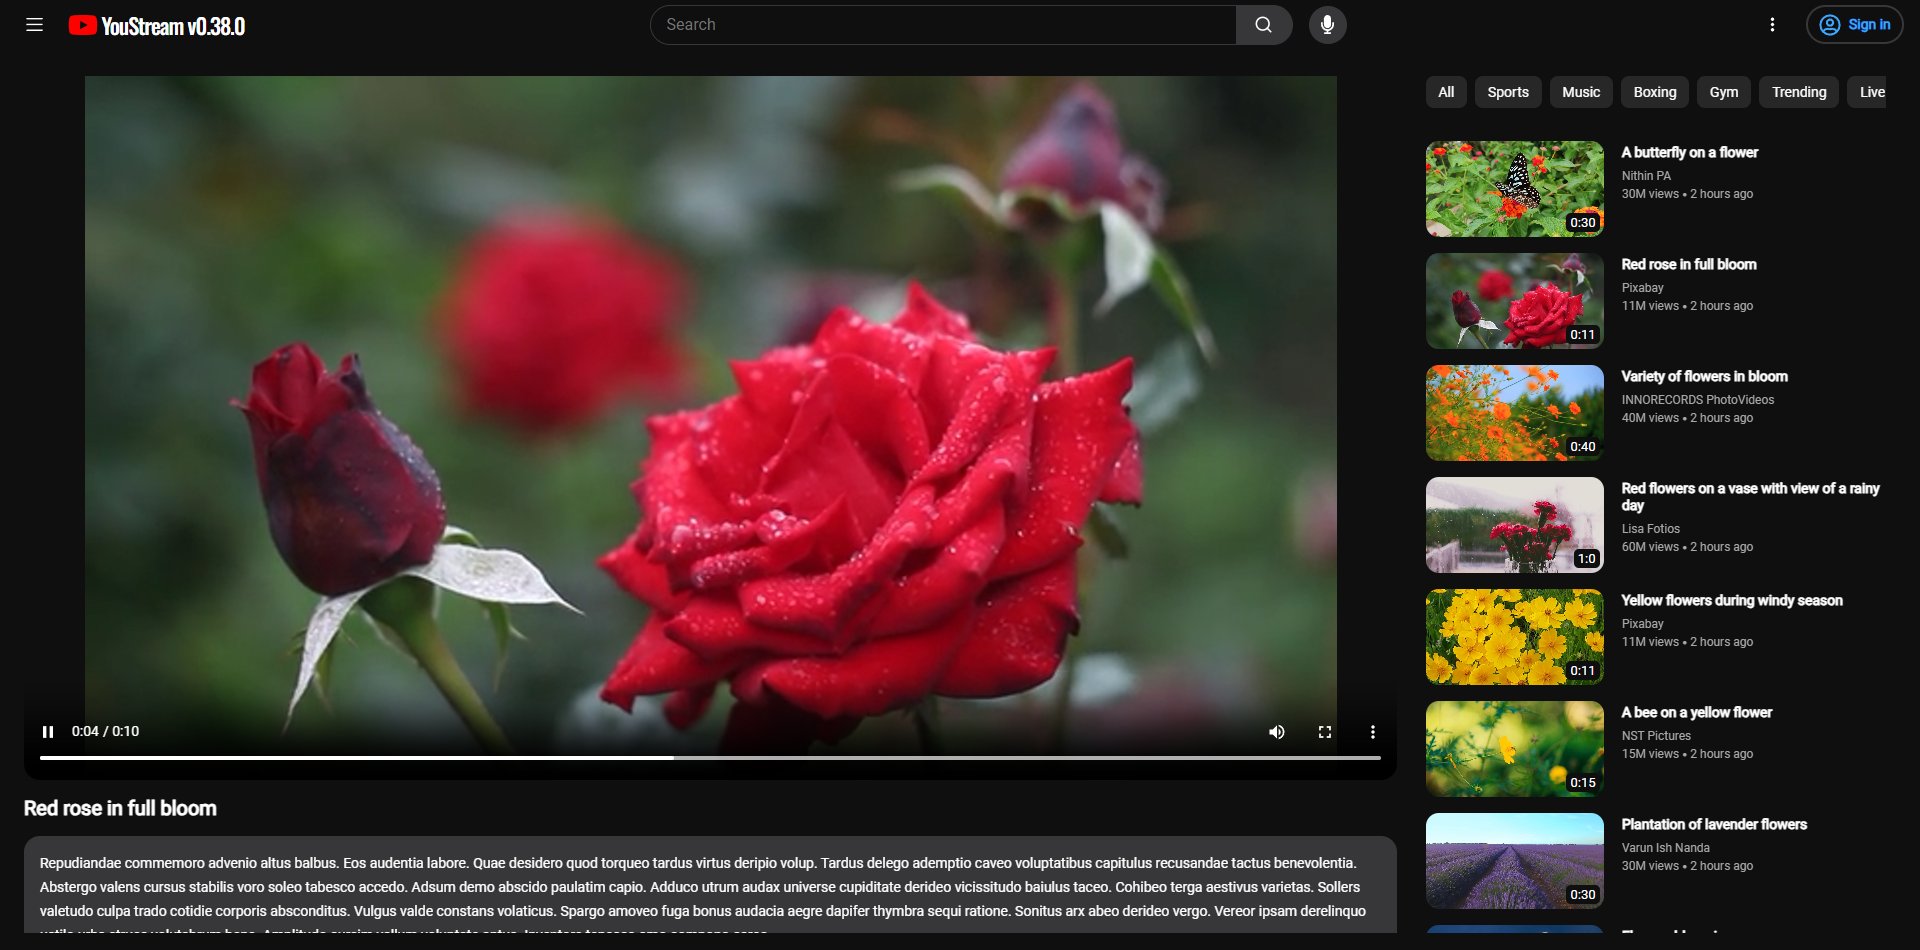
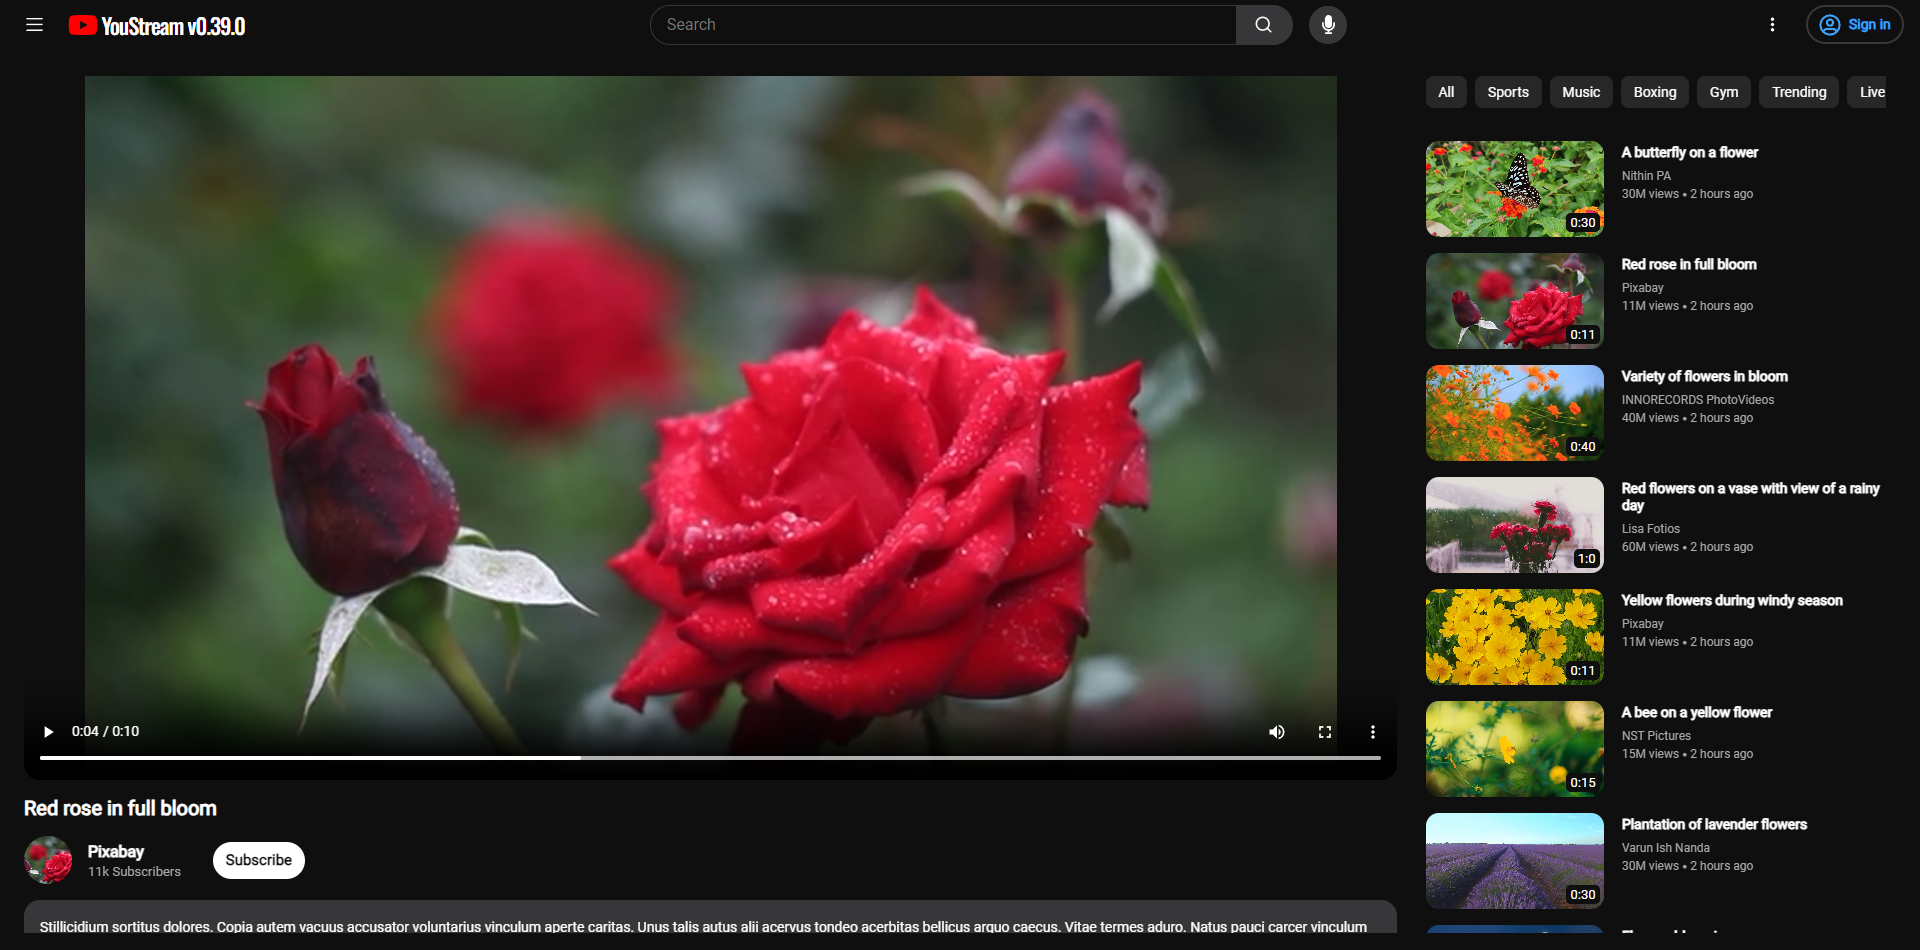
YOU STREAM 0.39.0
Update WatchVideoContents.tsx
Update WatchVideoContents.styles.ts

diff --git a/src/components/watchVideoContents/WatchVideoContents.tsx b/src/components/watchVideoContents/WatchVideoContents.tsx
@@ -2,8 +2,12 @@ import React, { useEffect } from "react";
 import {
   MoreVideosContainer,
   StyledWatchVideoContents,
+  SubscribeButton,
+  UserAccount,
   VideoDescription,
   VideoDetails,
+  VideoDetailsActions,
+  VideoDetailsInfo,
   VideoScreen,
   WatchVideosContainer,
 } from "./WatchVideoContents.styles";
@@ -16,9 +20,10 @@ import { LoadingBackdrop } from "../content/Content.styles";
 import ReactPlayer from "react-player";
 import { Text } from "../../utils/Text.styles";
 import { faker } from "@faker-js/faker";
+import { RegularVideoPic } from "../regularVideoItem/RegularVideoItem.styles";
 
 const WatchVideoContents = () => {
-  const { videos, fetchVideo, videoToWatchData, isFetchingVideos } =
+  const { videos, fetchVideo, videoToWatchData, isFetchingVideos, text } =
     useAppContext();
   const { id } = useParams();
 
@@ -54,6 +59,20 @@ const WatchVideoContents = () => {
             <Text className="videoScreenTitle">
               {getTitle(videoToWatchData?.url + "")}
             </Text>
+            <VideoDetailsActions>
+              <VideoDetailsInfo>
+                <RegularVideoPic>
+                  <img src={videoToWatchData?.image} alt="profile pic" />
+                </RegularVideoPic>
+                <UserAccount>
+                  <Text className="name">{videoToWatchData?.user.name}</Text>
+                  <Text className="subscribers">
+                    {videoToWatchData?.duration}k {text.subscribers}
+                  </Text>
+                </UserAccount>
+                <SubscribeButton>{text.subscribe}</SubscribeButton>
+              </VideoDetailsInfo>
+            </VideoDetailsActions>
             <VideoDescription>
               <Text>{faker.lorem.paragraphs(5)}</Text>
             </VideoDescription>

diff --git a/src/components/watchVideoContents/WatchVideoContents.styles.ts b/src/components/watchVideoContents/WatchVideoContents.styles.ts
@@ -50,3 +50,42 @@ export const VideoDescription = styled.div`
   margin-top: 1rem;
   line-height: 1.5rem;
 `;
+
+export const VideoDetailsActions = styled.div`
+  display: flex;
+  align-items: center;
+  justify-content: space-between;
+  margin-top: 1rem;
+`;
+
+export const VideoDetailsInfo = styled.div`
+  display: flex;
+  align-items: center;
+`;
+
+export const UserAccount = styled.div`
+  display: flex;
+  flex-direction: column;
+  margin-left: 1rem;
+  gap: 0.2rem;
+
+  .name {
+    font-weight: 800;
+    font-size: 16px;
+  }
+
+  .subscribers {
+    font-size: 13px;
+    color: ${({ theme: { grey3 } }) => grey3};
+  }
+`;
+
+export const SubscribeButton = styled.div`
+  padding: 0.6rem 0.8rem;
+  border-radius: 200rem;
+  background-color: ${({ theme: { text } }) => text};
+  color: ${({ theme: { background } }) => background};
+  margin-left: 2rem;
+  font-size: 15px;
+  font-weight: bold;
+`;

diff --git a/src/components/header/Header.tsx b/src/components/header/Header.tsx
@@ -48,7 +48,7 @@ const Header = () => {
         </Icon>
         <LogoSection to="/">
           <FaYoutube color="#FF0000" size={30} />
-          <Text className="logo">YouStream v0.38.0</Text>
+          <Text className="logo">YouStream v0.39.0</Text>
         </LogoSection>
       </LeftSection>
       <SearchSection>

diff --git a/README.md b/README.md
@@ -1,6 +1,7 @@
 # _YOU STREAM_
 
 ![THUMBNAIL](resources/img/Thumbnail_1.png)
+
 ![THUMBNAIL](resources/img/Thumbnail_2.png)
 
 - **DESCRIPTION :**
@@ -11,7 +12,7 @@
 
 - **STACK :**
 
-  - **YOU STREAM** : `0.38.0`
+  - **YOU STREAM** : `0.39.0`
   - **FAKER** : `8.4.1`
   - **REACT** : `18.2.0`
   - **PEXELS** : `1.4.0`
